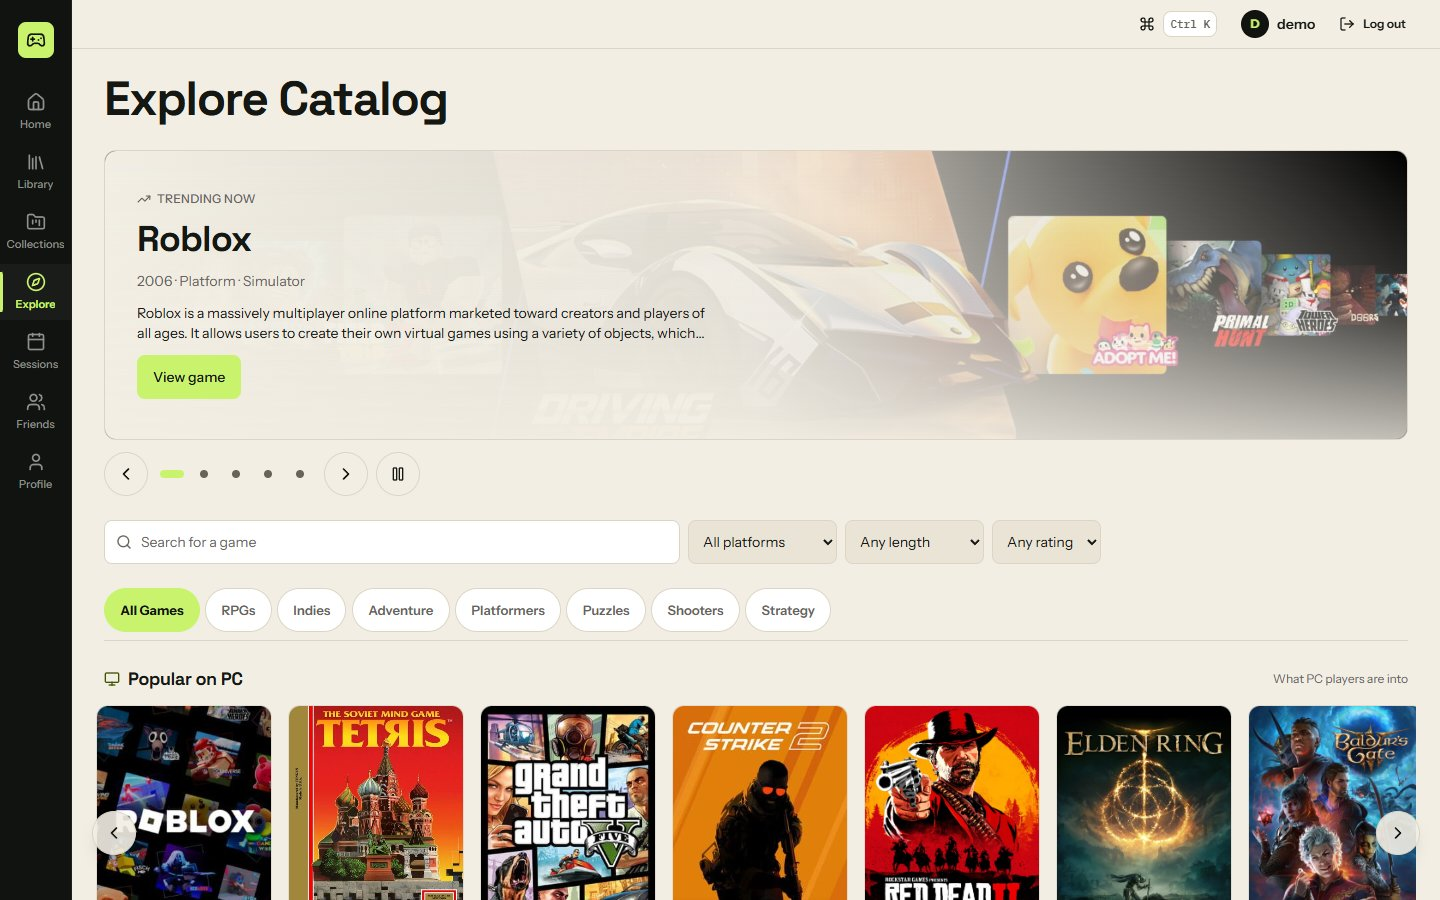
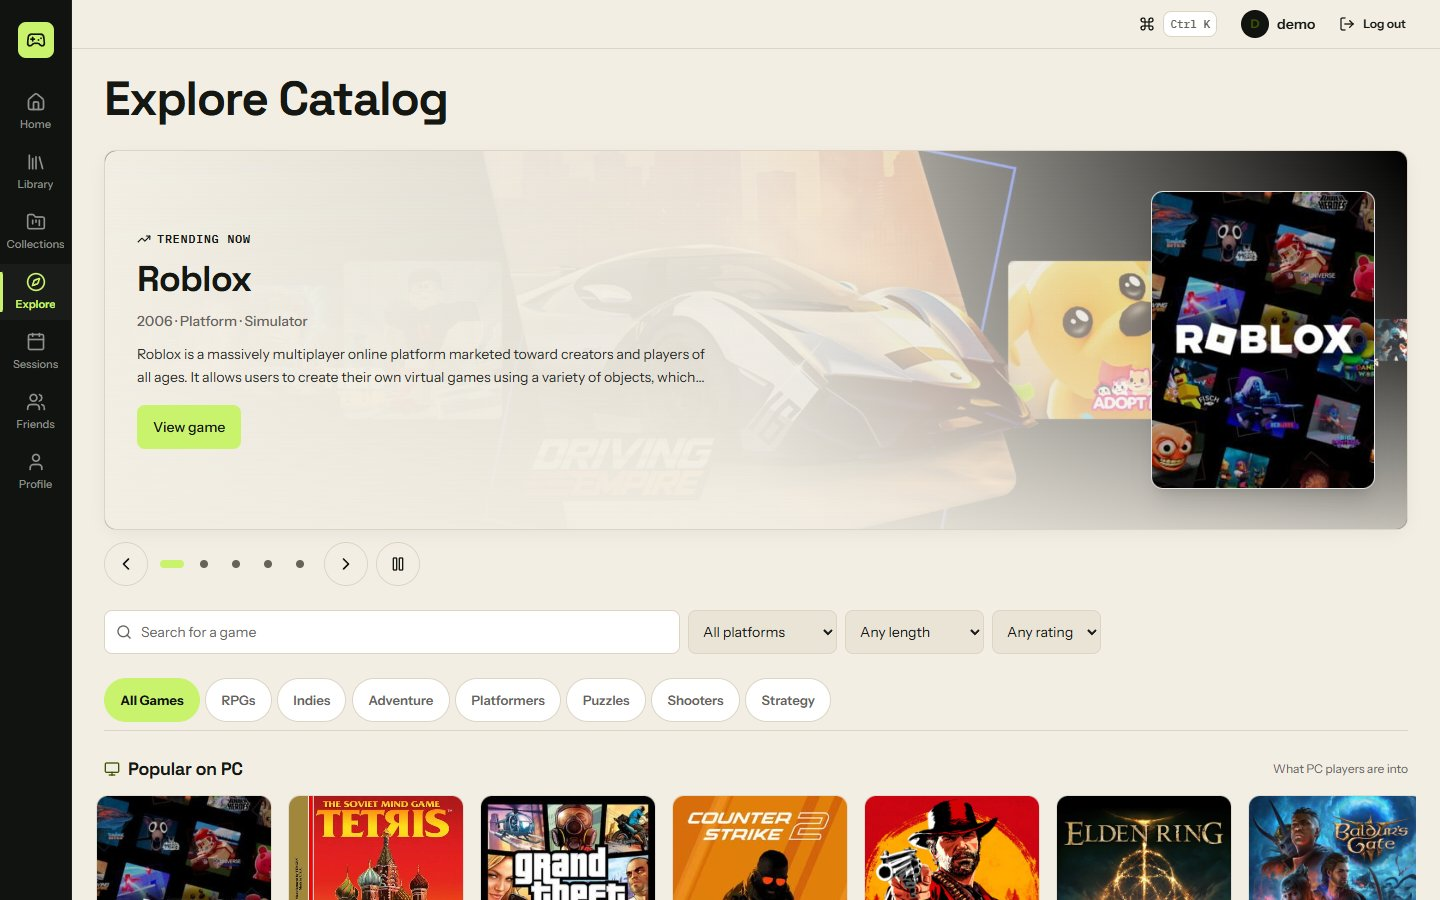
fix(ui): align GameHero and Explore carousel with single coherent artwork composition, normalize design tokens, and fix mobile TopBar

diff --git a/client/src/components/layout/TopBar.jsx b/client/src/components/layout/TopBar.jsx
@@ -29,55 +29,55 @@ export function TopBar({ onOpenPalette }) {
   }
 
   return (
-    <header className="gq-topbar sticky top-0 z-20 border-b border-[#DCD5C6] bg-[#F2EEE4]/90 backdrop-blur-md">
-      <div className="gq-topbar-inner mx-auto flex h-12 w-full max-w-[1480px] items-center gap-3 px-4 sm:px-6">
+    <header className="gq-topbar sticky top-0 z-20 border-b border-border bg-bg/90 backdrop-blur-md">
+      <div className="gq-topbar-inner mx-auto flex h-12 w-full max-w-[1480px] items-center gap-2 px-3 sm:gap-3 sm:px-6">
         <Link
           to="/"
           aria-label="GameQuest home"
           className="gq-mobile-brand flex min-h-11 min-w-11 items-center gap-2 font-heading font-bold md:hidden"
         >
-          <span className="flex h-8 w-8 items-center justify-center rounded-control bg-[#C9F36D] text-[#111311]">
+          <span className="flex h-8 w-8 items-center justify-center rounded-control bg-accent text-accent-fg">
             <Gamepad2 className="h-5 w-5" aria-hidden="true" />
           </span>
-          <span className="sr-only sm:not-sr-only text-sm font-bold tracking-tight text-[#151713]">GameQuest</span>
+          <span className="sr-only sm:not-sr-only text-sm font-bold tracking-tight text-text">GameQuest</span>
         </Link>
 
         {showSearch && (
           <form role="search" onSubmit={search} className="relative min-w-0 flex-1 md:max-w-md">
-            <Search className="pointer-events-none absolute left-3 top-1/2 h-4 w-4 -translate-y-1/2 text-text-muted" aria-hidden="true" />
+            <Search className="pointer-events-none absolute left-2.5 sm:left-3 top-1/2 h-4 w-4 -translate-y-1/2 text-text-muted" aria-hidden="true" />
             <input
               type="search"
               aria-label="Search games"
               placeholder="Search games"
               value={text}
               onChange={(e) => setText(e.target.value)}
-              className="gq-search h-11 w-full rounded-control border border-[#DCD5C6] bg-white pl-9 pr-3 text-sm text-text placeholder:text-text-muted shadow-2xs transition-colors focus:border-text focus:outline-none"
+              className="gq-search h-11 w-full rounded-control border border-border bg-surface pl-8 sm:pl-9 pr-2 sm:pr-3 text-xs sm:text-sm text-text placeholder:text-text-muted shadow-2xs transition-colors focus:border-text focus:outline-none"
             />
           </form>
         )}
 
-        <div className="gq-top-actions ml-auto flex items-center gap-1.5">
+        <div className="gq-top-actions ml-auto flex items-center gap-1 sm:gap-1.5">
           {onOpenPalette && (
             <Button
               variant="ghost"
               onClick={onOpenPalette}
               aria-keyshortcuts="Control+K Meta+K"
-              className="h-10 px-2.5 text-text hover:bg-white/60 transition-colors"
+              className="h-10 px-2 sm:px-2.5 text-text hover:bg-white/60 transition-colors"
             >
               <Command className="h-4 w-4 text-text" aria-hidden="true" />
               <span className="sr-only">Quick search</span>
-              <kbd className="hidden rounded-control border border-[#DCD5C6] bg-white px-1.5 py-0.5 text-[11px] font-mono font-medium text-text-muted shadow-2xs lg:inline">Ctrl K</kbd>
+              <kbd className="hidden rounded-control border border-border bg-surface px-1.5 py-0.5 text-[11px] font-mono font-medium text-text-muted shadow-2xs lg:inline">Ctrl K</kbd>
             </Button>
           )}
 
           {user && (
             <Link
               to="/profile"
-              className="flex min-h-11 items-center gap-2 rounded-control px-2 py-1 text-sm font-medium text-text hover:bg-white/60 transition-colors"
+              className="flex min-h-11 items-center gap-1.5 sm:gap-2 rounded-control px-1.5 sm:px-2 py-1 text-sm font-medium text-text hover:bg-white/60 transition-colors"
             >
               <span
                 aria-hidden="true"
-                className="flex h-7 w-7 items-center justify-center rounded-full bg-[#111311] text-[#C9F36D] text-xs font-bold"
+                className="flex h-7 w-7 items-center justify-center rounded-full bg-[var(--sidebar-bg)] text-accent text-xs font-bold"
               >
                 {user.username ? user.username.charAt(0).toUpperCase() : <User className="h-4 w-4" aria-hidden="true" />}
               </span>
@@ -90,7 +90,7 @@ export function TopBar({ onOpenPalette }) {
             variant="ghost"
             onClick={handleLogout}
             aria-label="Log out"
-            className="h-10 px-2.5 text-text hover:bg-white/60 transition-colors"
+            className="h-10 px-2 sm:px-2.5 text-text hover:bg-white/60 transition-colors"
           >
             <LogOut className="h-4 w-4" aria-hidden="true" />
             <span className="hidden text-xs font-semibold lg:inline">Log out</span>

diff --git a/client/src/components/game/GameHero.jsx b/client/src/components/game/GameHero.jsx
@@ -13,24 +13,27 @@ export function GameHero({ game, entryState, onRecommend }) {
   const developer = (game.developer ?? []).slice(0, 2).join(', ');
   const main = game.timeToBeat?.main;
   return (
-    <BackdropHero art={game} seed={game.title} className="min-h-80 px-4 py-6 sm:px-8 sm:py-10">
-      <div className="flex flex-col gap-6 md:flex-row md:items-end">
-        <SharedCover slug={game.slug} className="w-40 shrink-0 overflow-hidden rounded-card border border-border bg-surface shadow-2xl sm:w-48">
-          <GameCover game={game} />
-        </SharedCover>
-
-        <div className="flex min-w-0 flex-1 flex-col gap-4">
+    <BackdropHero art={game} seed={game.title} className="gq-game-hero min-h-80 px-5 py-7 sm:px-8 sm:py-10 rounded-card border border-border bg-surface shadow-2xs">
+      <div className="relative z-10 flex flex-col justify-between gap-8 md:flex-row md:items-center">
+        <div className="flex min-w-0 flex-1 max-w-2xl flex-col gap-4">
           <div className="flex flex-col gap-1.5">
-            <p className="text-xs font-medium uppercase tracking-wide text-text-muted">{[developer, year].filter(Boolean).join(' · ')}</p>
-            <h1 tabIndex={-1} className="font-heading text-3xl focus:outline-none font-bold leading-tight tracking-tight sm:text-5xl">{game.title}</h1>
+            <div className="flex items-center gap-2">
+              <span className="inline-block h-2 w-2 rounded-full bg-accent" aria-hidden="true" />
+              <p className="text-xs font-mono font-semibold uppercase tracking-wider text-text-muted">
+                {[developer, year].filter(Boolean).join(' · ')}
+              </p>
+            </div>
+            <h1 tabIndex={-1} className="font-heading text-3xl font-extrabold leading-tight tracking-tight text-text focus:outline-none sm:text-5xl">
+              {game.title}
+            </h1>
           </div>
 
           <dl className="flex flex-wrap items-center gap-x-6 gap-y-2 text-sm">
             {game.ratingAvg > 0 && (
               <div>
                 <dt className="sr-only">Community rating</dt>
-                <dd className="flex items-center gap-1 font-semibold tabular-nums">
-                  <Star className="h-4 w-4 fill-accent stroke-accent" aria-hidden="true" />
+                <dd className="flex items-center gap-1 font-semibold tabular-nums text-text">
+                  <Star className="h-4 w-4 fill-secondary-accent text-secondary-accent" aria-hidden="true" />
                   {game.ratingAvg.toFixed(1)}
                   <span className="font-normal text-text-muted">({game.ratingCount})</span>
                 </dd>
@@ -39,7 +42,7 @@ export function GameHero({ game, entryState, onRecommend }) {
             {main != null && (
               <div>
                 <dt className="sr-only">Time to beat</dt>
-                <dd className="flex items-center gap-1 font-semibold tabular-nums">
+                <dd className="flex items-center gap-1 font-semibold tabular-nums text-text">
                   <Clock className="h-4 w-4 text-text-muted" aria-hidden="true" />~{main} h to beat
                 </dd>
               </div>
@@ -48,19 +51,25 @@ export function GameHero({ game, entryState, onRecommend }) {
 
           <PlatformPills platforms={game.platforms} />
 
-          <div className="flex flex-col gap-3">
+          <div className="flex flex-col gap-3 pt-2">
             <GameLibraryPanel game={game} state={entryState} />
             <div className="flex flex-wrap gap-2">
-              <Button variant="secondary" onClick={onRecommend}>
-                <Sparkles className="h-4 w-4 text-accent" aria-hidden="true" />
+              <Button variant="secondary" onClick={onRecommend} className="font-semibold">
+                <Sparkles className="h-4 w-4 text-accent-text" aria-hidden="true" />
                 Recommend
               </Button>
               <Link to={`/sessions/new?game=${game.slug}`} className={buttonVariants({ variant: 'secondary' })}>
-                <CalendarPlus className="h-4 w-4 text-accent" aria-hidden="true" />
+                <CalendarPlus className="h-4 w-4 text-accent-text" aria-hidden="true" />
                 Schedule
               </Link>
             </div>
           </div>
+        </div>
+
+        <div className="flex shrink-0 items-center justify-center self-center md:self-auto" aria-hidden="true">
+          <SharedCover slug={game.slug} className="gq-hero-artwork w-44 sm:w-52 lg:w-60 aspect-[3/4] rounded-card overflow-hidden border border-black/10 bg-surface shadow-xl transition-all duration-300 hover:scale-[1.02]">
+            <GameCover game={game} className="h-full w-full object-cover" />
+          </SharedCover>
         </div>
       </div>
     </BackdropHero>

diff --git a/client/src/components/explore/HeroCarousel.jsx b/client/src/components/explore/HeroCarousel.jsx
@@ -3,6 +3,7 @@ import { Link } from 'react-router-dom';
 import { motion } from 'framer-motion';
 import { ChevronLeft, ChevronRight, Pause, Play, TrendingUp } from 'lucide-react';
 import { BackdropHero } from '@/components/art/BackdropHero.jsx';
+import { CoverImage } from '@/components/games/GameCard.jsx';
 import { buttonVariants } from '@/components/ui/button.jsx';
 import { Skeleton } from '@/components/ui/skeleton.jsx';
 import { ErrorState } from '@/components/ui/states.jsx';
@@ -66,20 +67,28 @@ export function HeroCarousel() {
       {/* The live region is this stable wrapper (a region that is re-created on every slide is not announced); only the
           art and the slide are keyed, so the controls below keep their identity, and keyboard focus, across slides. */}
       <div aria-live={auto ? 'off' : 'polite'}>
-        <BackdropHero key={game.id} as="div" art={game} seed={game.title} className="min-h-72 px-5 py-8 sm:px-8 sm:py-10">
-          <motion.div {...fade} role="group" aria-roledescription="slide" aria-label={`${index + 1} of ${count}`} className="flex max-w-xl flex-col gap-3">
-            <p className="flex items-center gap-1.5 text-xs font-medium uppercase tracking-wide text-text-muted">
-              <TrendingUp className="h-3.5 w-3.5" aria-hidden="true" /> Trending now
-            </p>
-            <h2 className="font-heading text-3xl font-bold leading-tight sm:text-4xl">{game.title}</h2>
-            <p className="text-sm text-text-muted">{[year, ...(game.genres ?? []).slice(0, 2)].filter(Boolean).join(' · ')}</p>
-            {game.summary && <p className="line-clamp-2 text-sm text-text">{game.summary}</p>}
-            <div>
-              <Link to={`/games/${game.slug}`} aria-label={`View game: ${game.title}`} className={buttonVariants({ variant: 'primary' })}>
-                View game
-              </Link>
+        <BackdropHero key={game.id} as="div" art={game} seed={game.title} className="gq-home-hero min-h-72 px-5 py-8 sm:px-8 sm:py-10">
+          <div className="relative z-10 flex flex-col justify-between gap-6 md:flex-row md:items-center">
+            <motion.div {...fade} role="group" aria-roledescription="slide" aria-label={`${index + 1} of ${count}`} className="flex max-w-xl flex-col gap-3">
+              <p className="flex items-center gap-1.5 text-xs font-mono font-semibold uppercase tracking-wider text-secondary-accent">
+                <TrendingUp className="h-3.5 w-3.5" aria-hidden="true" /> Trending now
+              </p>
+              <h2 className="font-heading text-3xl font-extrabold leading-tight tracking-tight text-text sm:text-4xl">{game.title}</h2>
+              <p className="text-sm font-medium text-text-muted">{[year, ...(game.genres ?? []).slice(0, 2)].filter(Boolean).join(' · ')}</p>
+              {game.summary && <p className="line-clamp-2 text-sm text-text/90 leading-relaxed">{game.summary}</p>}
+              <div className="pt-1">
+                <Link to={`/games/${game.slug}`} aria-label={`View game: ${game.title}`} className={buttonVariants({ variant: 'primary' })}>
+                  View game
+                </Link>
+              </div>
+            </motion.div>
+
+            <div className="hidden md:flex shrink-0 items-center justify-center" aria-hidden="true">
+              <div className="gq-hero-artwork relative w-40 sm:w-48 lg:w-56 aspect-[3/4] rounded-card overflow-hidden border border-black/10 bg-surface shadow-xl transition-all duration-300 hover:scale-[1.02]">
+                <CoverImage cover={game.cover} title={game.title} alt="" sizes="224px" className="h-full w-full object-cover" />
+              </div>
             </div>
-          </motion.div>
+          </div>
         </BackdropHero>
       </div>
 

diff --git a/client/src/components/home/HomeHero.jsx b/client/src/components/home/HomeHero.jsx
@@ -61,20 +61,20 @@ export function HomeHero({ username, dashboard, playNext }) {
 function HeroArtwork({ game }) {
   if (!game) return null;
   return (
-    <div className="hidden md:flex shrink-0 items-center justify-center" aria-hidden="true">
-      <div className="gq-hero-artwork relative w-44 sm:w-52 lg:w-60 aspect-[3/4] rounded-card overflow-hidden border border-black/10 bg-surface shadow-xl transition-all duration-300 hover:scale-[1.02]">
+    <div className="flex shrink-0 items-center justify-center self-center md:self-auto" aria-hidden="true">
+      <div className="gq-hero-artwork relative w-36 sm:w-52 lg:w-60 aspect-[3/4] rounded-card overflow-hidden border border-black/10 bg-surface shadow-xl transition-all duration-300 hover:scale-[1.02]">
         {game.cover ? (
           <CoverImage
             cover={game.cover}
             title={game.title ?? 'GameQuest'}
             alt=""
-            sizes="(min-width: 1024px) 240px, 208px"
+            sizes="(min-width: 1024px) 240px, (min-width: 640px) 208px, 144px"
             className="h-full w-full object-cover transition-transform duration-300"
           />
         ) : (
-          <div className="flex h-full w-full flex-col items-center justify-center p-6 text-center bg-surface-raised">
-            <Gamepad2 className="h-10 w-10 text-text-muted mb-2" />
-            <span className="font-heading font-bold text-sm text-text line-clamp-2">{game.title || 'GameQuest'}</span>
+          <div className="flex h-full w-full flex-col items-center justify-center p-4 text-center bg-surface-raised">
+            <Gamepad2 className="h-8 w-8 text-text-muted mb-2" />
+            <span className="font-heading font-bold text-xs sm:text-sm text-text line-clamp-2">{game.title || 'GameQuest'}</span>
           </div>
         )}
         <div className="pointer-events-none absolute inset-x-0 bottom-0 h-16 bg-gradient-to-t from-black/40 to-transparent" />
@@ -159,7 +159,7 @@ function HeroBody({ dashboard, playNext }) {
                 <div>
                   <dt className="text-xs text-text-muted">Achievements</dt>
                   <dd className="flex items-center gap-1 font-semibold tabular-nums text-text">
-                    <Trophy className="h-4 w-4 text-[var(--secondary-accent)]" aria-hidden="true" />
+                    <Trophy className="h-4 w-4 text-secondary-accent" aria-hidden="true" />
                     {achievements.pct}% <span className="font-normal text-text-muted">({achievements.unlocked}/{achievements.total})</span>
                   </dd>
                 </div>

diff --git a/client/src/components/layout/SideRail.jsx b/client/src/components/layout/SideRail.jsx
@@ -7,14 +7,14 @@ import { DESKTOP_NAV_ITEMS } from './navItems.js';
 export function SideRail() {
   return (
     <div
-      className="gq-side-rail fixed inset-y-0 left-0 z-30 hidden w-[72px] flex-col items-center border-r border-[#1E221E] bg-[#111311] py-4 md:flex"
+      className="gq-side-rail fixed inset-y-0 left-0 z-30 hidden w-[72px] flex-col items-center border-r border-[var(--sidebar-border)] bg-[var(--sidebar-bg)] py-4 md:flex"
     >
       <Link
         to="/"
         aria-label="GameQuest home"
         className="gq-brand flex h-12 w-12 items-center justify-center rounded-control transition-colors hover:bg-white/5"
       >
-        <span className="flex h-9 w-9 items-center justify-center rounded-control bg-[#C9F36D] text-[#111311] shadow-sm">
+        <span className="flex h-9 w-9 items-center justify-center rounded-control bg-accent text-accent-fg shadow-sm">
           <Gamepad2 className="h-5 w-5" aria-hidden="true" />
         </span>
       </Link>
@@ -30,8 +30,8 @@ export function SideRail() {
                   cn(
                     'gq-nav-link relative flex min-h-14 w-full flex-col items-center justify-center gap-1 px-1 text-[11px] font-medium transition-colors',
                     isActive
-                      ? 'is-active text-[#C9F36D] font-semibold bg-white/[0.04]'
-                      : 'text-[#8E928B] hover:bg-white/[0.03] hover:text-[#F2EEE4]',
+                      ? 'is-active text-accent font-semibold bg-white/[0.04]'
+                      : 'text-[var(--sidebar-text)] hover:bg-white/[0.03] hover:text-bg',
                   )
                 }
               >
@@ -40,7 +40,7 @@ export function SideRail() {
                     {isActive && (
                       <span
                         aria-hidden="true"
-                        className="gq-nav-indicator absolute inset-y-2 left-0 w-[3px] rounded-r bg-[#C9F36D]"
+                        className="gq-nav-indicator absolute inset-y-2 left-0 w-[3px] rounded-r bg-accent"
                       />
                     )}
                     <Icon className="h-5 w-5 shrink-0" aria-hidden="true" />

diff --git a/client/src/pages/Home.jsx b/client/src/pages/Home.jsx
@@ -86,7 +86,7 @@ function StatTiles({ dashboard }) {
   return (
     <section aria-label="Your library at a glance" className="grid grid-cols-2 gap-3 sm:grid-cols-4">
       {tiles.map(({ icon: Icon, label, value }) => (
-        <div key={label} className="flex items-center gap-3 rounded-card border border-[#DCD5C6] bg-surface p-4 shadow-2xs transition-shadow hover:shadow-xs">
+        <div key={label} className="flex items-center gap-3 rounded-card border border-border bg-surface p-4 shadow-2xs transition-shadow hover:shadow-xs">
           <span className="flex h-10 w-10 shrink-0 items-center justify-center rounded-control bg-surface-raised text-text">
             <Icon size={18} aria-hidden="true" />
           </span>
@@ -114,14 +114,14 @@ function BacklogHealth({ dashboard, backlogHealth }) {
   }));
 
   return (
-    <ArtPanel aria-labelledby="backlog-health-title" seed="home-backlog" className="gq-editorial-panel gq-backlog-panel flex flex-col gap-4 p-5 rounded-card border border-[#DCD5C6] bg-surface shadow-2xs">
+    <ArtPanel aria-labelledby="backlog-health-title" seed="home-backlog" className="gq-editorial-panel gq-backlog-panel flex flex-col gap-4 p-5 rounded-card border border-border bg-surface shadow-2xs">
       <div className="flex flex-wrap items-center justify-between gap-3">
         <h2 id="backlog-health-title" className="font-bold flex items-center gap-2 font-heading text-base text-text">
           <Layers size={18} className="text-text" />
           Backlog Health & Velocity
         </h2>
         {h?.projectedClearMonths != null && (
-          <span className="inline-flex items-center gap-1.5 rounded-full bg-[#C9F36D] px-3 py-1 text-xs font-bold text-[#111311]">
+          <span className="inline-flex items-center gap-1.5 rounded-full bg-accent px-3 py-1 text-xs font-bold text-accent-fg">
             <Hourglass className="h-3.5 w-3.5" />
             Clear backlog in ~{h.projectedClearMonths} months
           </span>

diff --git a/client/src/components/recommendations/RecommendationWidget.jsx b/client/src/components/recommendations/RecommendationWidget.jsx
@@ -23,9 +23,9 @@ export function RecommendationWidget() {
   const rec = data.items[0];
 
   return (
-    <ArtPanel as="div" art={rec.game} seed="home-recommendation" className="gq-editorial-panel gq-recommendation flex flex-col gap-3 p-4 rounded-card border border-[#DCD5C6] bg-surface shadow-2xs">
+    <ArtPanel as="div" art={rec.game} seed="home-recommendation" className="gq-editorial-panel gq-recommendation flex flex-col gap-3 p-4 rounded-card border border-border bg-surface shadow-2xs">
       <div className="flex items-center justify-between">
-        <div className="flex items-center gap-1.5 text-xs font-mono font-bold uppercase tracking-wider text-[var(--secondary-accent)]">
+        <div className="flex items-center gap-1.5 text-xs font-mono font-bold uppercase tracking-wider text-secondary-accent">
           <Sparkles className="h-3.5 w-3.5" /> Recommendation
         </div>
         <Link

diff --git a/client/src/components/sessions/UpcomingSessions.jsx b/client/src/components/sessions/UpcomingSessions.jsx
@@ -13,7 +13,7 @@ export function UpcomingSessions() {
   const load = useCallback((signal) => listSessions({ limit: 3 }, { signal }), []);
   const { status, data, error, retry } = useAsync(load);
   return (
-    <ArtPanel aria-labelledby="upcoming-title" seed="home-sessions" className="gq-editorial-panel flex flex-col gap-3 p-4 rounded-card border border-[#DCD5C6] bg-surface shadow-2xs">
+    <ArtPanel aria-labelledby="upcoming-title" seed="home-sessions" className="gq-editorial-panel flex flex-col gap-3 p-4 rounded-card border border-border bg-surface shadow-2xs">
       <div className="flex items-center justify-between gap-3">
         <h2 id="upcoming-title" className="text-base font-bold font-heading text-text">Upcoming sessions</h2>
         <Link to="/sessions" className="text-xs font-semibold text-text hover:underline">All sessions</Link>

diff --git a/client/src/components/feed/FriendFeed.jsx b/client/src/components/feed/FriendFeed.jsx
@@ -7,7 +7,7 @@ import { ActivityList } from './ActivityList.jsx';
 // "What my friends are playing": its own section on Home, so a failure here never blanks the page.
 export function FriendFeed() {
   return (
-    <ArtPanel aria-labelledby="friend-feed-title" seed="home-friends" className="gq-editorial-panel flex flex-col gap-3 p-4 rounded-card border border-[#DCD5C6] bg-surface shadow-2xs">
+    <ArtPanel aria-labelledby="friend-feed-title" seed="home-friends" className="gq-editorial-panel flex flex-col gap-3 p-4 rounded-card border border-border bg-surface shadow-2xs">
       <h2 id="friend-feed-title" className="text-base font-bold font-heading text-text">Friends’ activity</h2>
       <ActivityList
         loadPage={getFeed}

diff --git a/client/src/styles/visual-refresh.css b/client/src/styles/visual-refresh.css
@@ -44,10 +44,11 @@
   color: var(--text);
 }
 
-/* Cinematic Home Hero */
-.gq-home-hero {
+/* Cinematic Heroes */
+.gq-home-hero,
+.gq-game-hero {
   position: relative;
-  min-height: 22rem;
+  min-height: 20rem;
   border-radius: var(--radius-card) !important;
   border: 1px solid var(--border) !important;
   background-color: var(--surface);
@@ -64,7 +65,7 @@
 .gq-hero-artwork {
   position: relative;
   z-index: 2;
-  width: 17rem;
+  width: clamp(10rem, 22vw, 16rem);
   aspect-ratio: 3/4;
   border-radius: var(--radius-card);
   overflow: hidden;

diff --git a/client/src/components/games/GameCard.jsx b/client/src/components/games/GameCard.jsx
@@ -91,7 +91,7 @@ export function GameCard({ game, shared = true }) {
   return (
     <Link
       to={`/games/${game.slug}`}
-      className="gq-game-card group flex flex-col overflow-hidden rounded-card border border-border bg-surface transition-colors hover:bg-surface-raised"
+      className="gq-game-card group flex flex-col overflow-hidden rounded-card border border-border bg-surface"
     >
       <SharedCover slug={shared ? game.slug : null}>
         <GameCover game={game} />

diff --git a/client/tailwind.config.js b/client/tailwind.config.js
@@ -19,6 +19,7 @@ const names = [
   'accent',
   'accent-fg',
   'accent-text',
+  'secondary-accent',
   'reward',
   'danger',
   'success',
